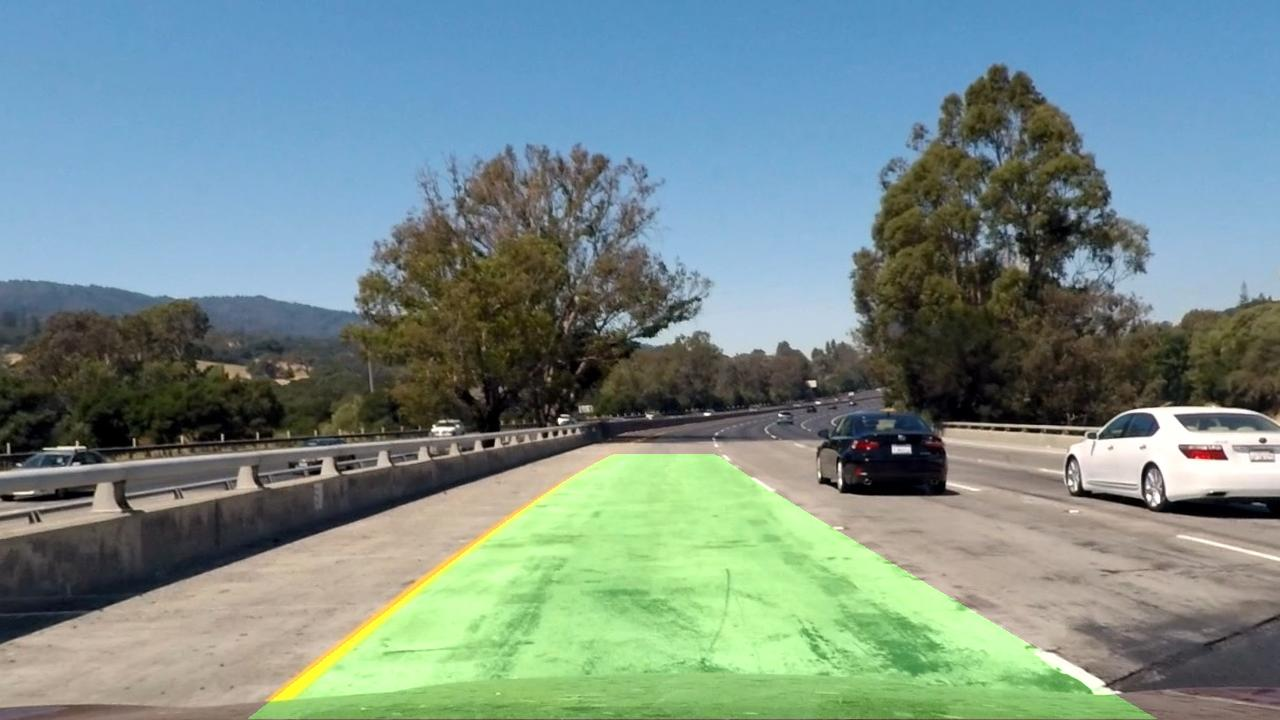
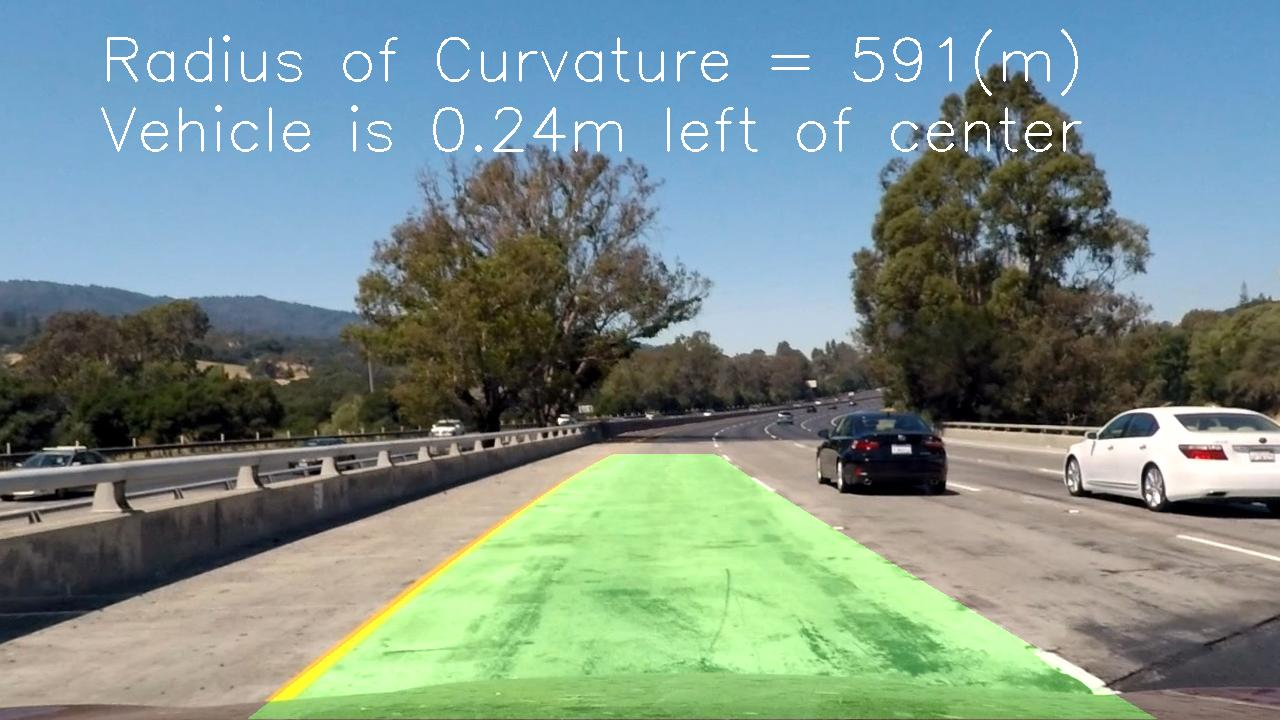
Milestone 2 finish

diff --git a/UdacitySelfDrivingCarEngineer/Lesson9Project-CarND-Advanced-Lane-Lines-master/project.py b/UdacitySelfDrivingCarEngineer/Lesson9Project-CarND-Advanced-Lane-Lines-master/project.py
@@ -31,19 +31,24 @@ def main():
         undist_image = correct_image_distortion(fname, mtx, dist)
         thresholded_binary_image = create_thresholded_binary_image(undist_image)
         warped_image = perspective_transform(thresholded_binary_image)
-        warped_lane, left_curverad, right_curverad = fit_polynomial(warped_image)
+        warped_lane, curvature, position = fit_polynomial(warped_image)
         lane_image = perspective_transform(warped_lane, inverse=True)
         final_image = combine(lane_image, undist_image)
-        save_image(fname, final_image, 'output_images/')
-
+        texted_final_image = write_text_on_image(final_image, curvature, position)
+        save_image(fname, texted_final_image, 'output_images/')
+        # plt.imshow(texted_final_image)
+        # break
 
     # For Testing
-    # thresholded_binary_image = cv2.imread('test_images_out_temp/straight_lines1.jpg')
+    # fname = 'test_images/test1.jpg'
+    # undist_image = correct_image_distortion(fname, mtx, dist)
+    # thresholded_binary_image = create_thresholded_binary_image(undist_image)
     # warped_image = perspective_transform(thresholded_binary_image)
-    # warped_lane, left_curverad, right_curverad = fit_polynomial(warped_image)
+    # warped_lane, curvature, position = fit_polynomial(warped_image)
     # lane_image = perspective_transform(warped_lane, inverse=True)
-    # final_image = combine(lane_image, thresholded_binary_image)
-    # plt.imshow(final_image)
+    # final_image = combine(lane_image, undist_image)
+    # texted_final_image = write_text_on_image(final_image, curvature, position)
+    # plt.imshow(warped_lane)
 
 
 def process_images_for_calibration(images, inner_x, inner_y):
@@ -252,32 +257,21 @@ def fit_polynomial(binary_warped):
     # plt.plot(left_fitx, ploty, color='yellow')
     # plt.plot(right_fitx, ploty, color='yellow')
 
-    left_curverad, right_curverad = measure_curvature_real(leftx, rightx, ploty, lefty, righty)
+    curvature, position = measure_curvature_and_position(binary_warped, leftx, rightx, ploty, lefty, righty)
 
-    print(left_curverad, "m")
-    print(right_curverad, "m")
     warped_lane = draw_lane(out_img, left_fitx, right_fitx, ploty)
 
-    return warped_lane, left_curverad, right_curverad
+    return warped_lane, curvature, position
 
 
-def draw_lane(warped, left_fitx, right_fitx, ploty):
-    # Create an image to draw the lines on
-    warp_zero = np.zeros_like(warped).astype(np.uint8)
-    color_warp = np.dstack((warp_zero, warp_zero, warp_zero))
-
-    # Recast the x and y points into usable format for cv2.fillPoly()
-    pts_left = np.array([np.transpose(np.vstack([left_fitx, ploty]))])
-    pts_right = np.array([np.flipud(np.transpose(np.vstack([right_fitx, ploty])))])
-    pts = np.hstack((pts_left, pts_right))
-
-    # Draw the lane onto the warped blank image
-    cv2.fillPoly(color_warp, np.int_([pts]), (0, 255, 0))
-
-    return color_warp
+def measure_position_to_center(leftx, rightx, binary_warped):
+    length = binary_warped.shape[1]
+    vehicle_pos = length / 2
+    lane_center_pos = (rightx[0] - leftx[0]) / 2 + leftx[0]
+    return vehicle_pos - lane_center_pos
 
 
-def measure_curvature_real(leftx, rightx, ploty, lefty, righty):
+def measure_curvature_and_position(binary_warped, leftx, rightx, ploty, lefty, righty):
     """
     Calculates the curvature of polynomial functions in meters.
     """
@@ -301,11 +295,66 @@ def measure_curvature_real(leftx, rightx, ploty, lefty, righty):
     right_curverad = ((1 + (2 * right_fit_cr[0] * y_eval * ym_per_pix + right_fit_cr[1]) ** 2) ** 1.5) / np.absolute(
         2 * right_fit_cr[0])
 
-    return left_curverad, right_curverad
+    curvature = (left_curverad + right_curverad) / 2
+
+    position_to_center = measure_position_to_center(leftx, rightx, binary_warped)
+    real_position_to_center = position_to_center * xm_per_pix
+
+    return curvature, real_position_to_center
+
+
+def draw_lane(warped, left_fitx, right_fitx, ploty):
+    # Create an image to draw the lines on
+    warp_zero = np.zeros_like(warped).astype(np.uint8)
+    color_warp = np.dstack((warp_zero, warp_zero, warp_zero))
+
+    # Recast the x and y points into usable format for cv2.fillPoly()
+    pts_left = np.array([np.transpose(np.vstack([left_fitx, ploty]))])
+    pts_right = np.array([np.flipud(np.transpose(np.vstack([right_fitx, ploty])))])
+    pts = np.hstack((pts_left, pts_right))
+
+    # Draw the lane onto the warped blank image
+    cv2.fillPoly(color_warp, np.int_([pts]), (0, 255, 0))
+
+    return color_warp
 
 
 def combine(lane_image, image):
     return cv2.addWeighted(image, 1, lane_image, 0.3, 0)
+
+
+def write_text_on_image(image, curvature, position):
+    cur_text = 'Radius of Curvature = ' + str(int(curvature)) + '(m)'
+
+    font = cv2.FONT_HERSHEY_SIMPLEX
+    topPosition = (100, 80)
+    fontScale = 2
+    fontColor = (255, 255, 255)
+    lineType = 2
+
+    cv2.putText(image, cur_text,
+                topPosition,
+                font,
+                fontScale,
+                fontColor,
+                lineType)
+
+    if position >= 0:
+        left_or_right = 'right'
+    else:
+        left_or_right = 'left'
+
+    pos_text = 'Vehicle is ' + "{:.2f}".format(abs(position)) + 'm ' + left_or_right + ' of center'
+    topPosition = (100, 150)
+
+    cv2.putText(image, pos_text,
+                topPosition,
+                font,
+                fontScale,
+                fontColor,
+                lineType)
+
+    return image
 
 
 def save_image(fname, image, output_dir):
